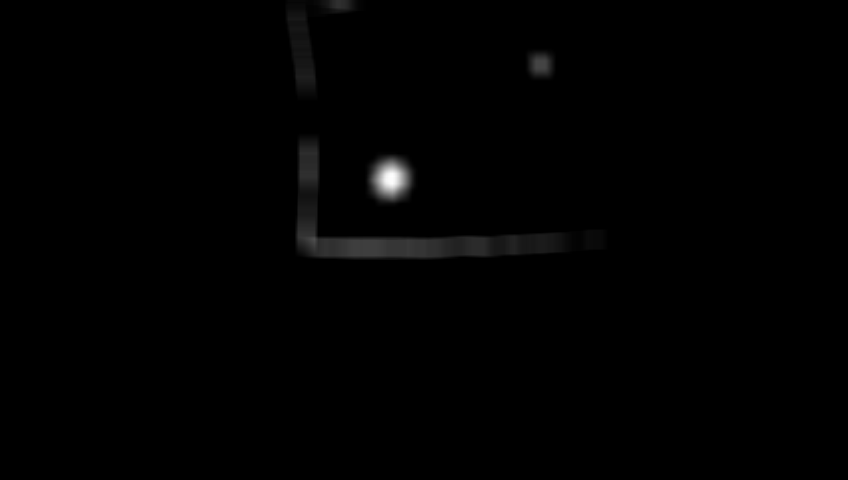
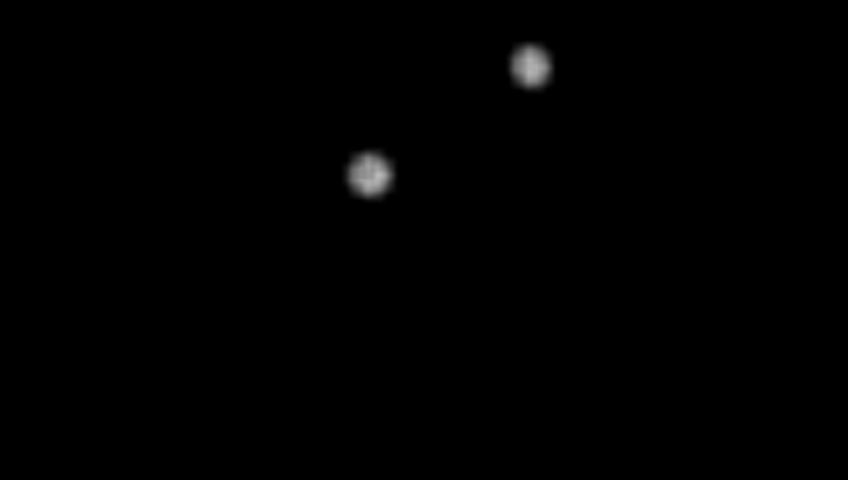
detect fake flowers

diff --git a/jetson/src/core/imaging.cpp b/jetson/src/core/imaging.cpp
@@ -74,10 +74,10 @@ cv::Mat colorMask(cv::Mat& image, Pixel ideal, double angleTol, double lengthTol
 std::vector<Point2D> findFlowerCenters(cv::Mat& image){
 	std::vector<Point2D> yellowBlobs;
 
-	cv::Mat yellowMask = colorMask(image, {255, 255, 255}, 0.1, 5);
+	cv::Mat yellowMask = colorMask(image, {255, 255, 255}, 0.1, 75);
 	cv::imwrite("./plots/yellow.png", yellowMask);
 
-	cv::Mat green = colorMask(image, {82, 105, 74}, 0.1, 5);
+	cv::Mat green = colorMask(image, {82, 105, 74}, 0.1, 50);
 	cv::imwrite("./plots/green.png", green);
 	cv::blur(green, green, cv::Size(20, 20));
 	cv::imwrite("./plots/blurredGreen.png", green);
